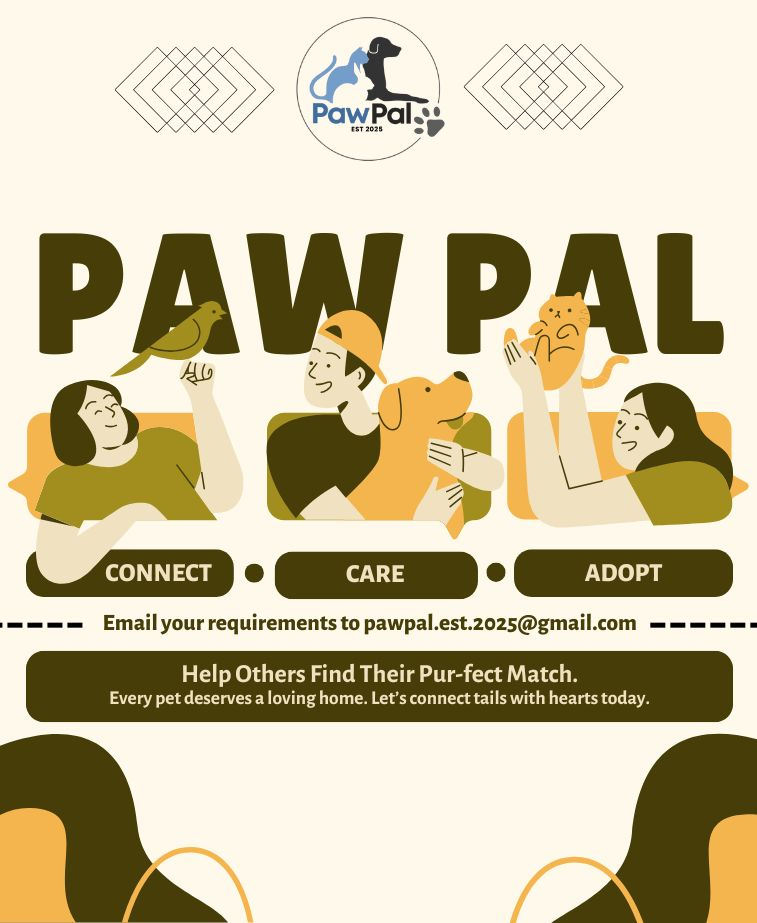
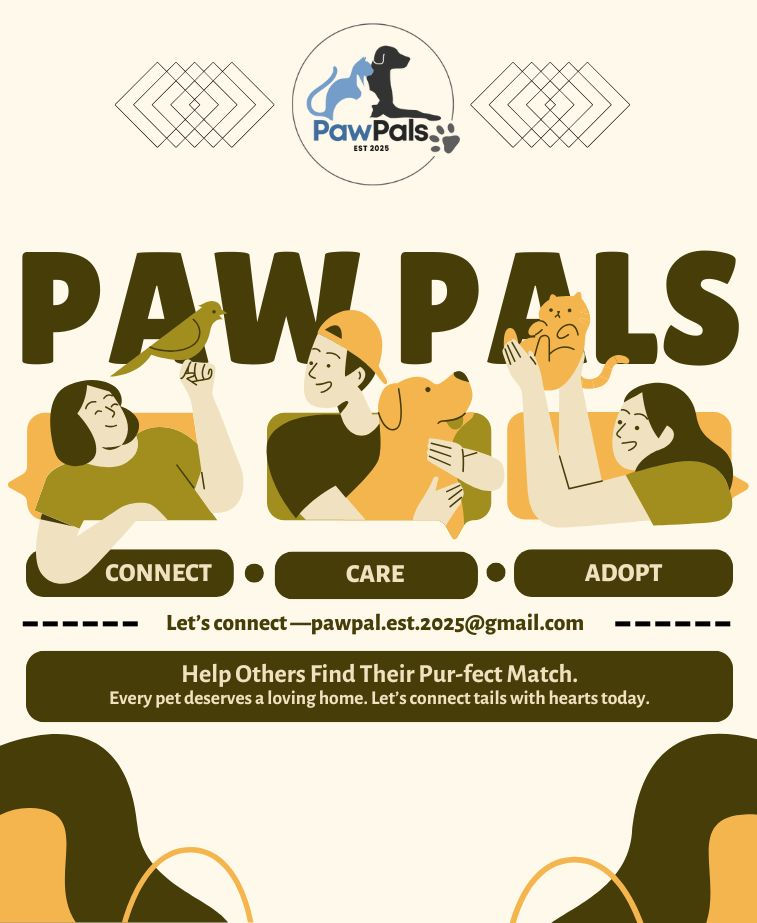
feat: updated signup with our schema

Changed region(s): [[0.0304, 0.2427, 1.0, 0.3944], [0.1519, 0.0, 0.8203, 0.182], [0.0, 0.6674, 1.0, 0.6977]]

diff --git a/frontend/src/components/Signup.jsx b/frontend/src/components/Signup.jsx
@@ -1,7 +1,6 @@
 import React, { useState, useMemo } from "react";
 import { Link } from "react-router-dom";
 import signupImage from "../assets/pawpal_signup.jpg";
-import emailjs from "@emailjs/browser";
 
 const styles = {
   container: {
@@ -33,7 +32,11 @@ const styles = {
     padding: "2rem",
     display: "flex",
     flexDirection: "column",
-    justifyContent: "center",
+    justifyContent: "flex-start",
+    height: "90vh",
+    overflowY: "auto",
+    scrollbarWidth: "thin",
+    scrollbarColor: "#ccc #fff",
   },
   title: {
     fontSize: "2.3rem",
@@ -71,6 +74,11 @@ const styles = {
     fontSize: "1rem",
     boxSizing: "border-box",
   },
+  errorText: {
+    color: "red",
+    fontSize: "0.75rem",
+    marginTop: "0.25rem",
+  },
   instruction: {
     fontSize: "0.85rem",
     color: "#4b5563",
@@ -101,6 +109,7 @@ const styles = {
 
 export default function Signup() {
   const [formData, setFormData] = useState({});
+  const [errors, setErrors] = useState({});
 
   const quotes = [
     "Give Love a Home — Adopt from the Pound.",
@@ -115,25 +124,80 @@ export default function Signup() {
   }, []);
 
   const handleChange = (e) => {
-    setFormData({ ...formData, [e.target.name]: e.target.value });
+    const { name, value } = e.target;
+
+    if (name.includes(".")) {
+      const [parent, child] = name.split(".");
+      setFormData((prev) => ({
+        ...prev,
+        [parent]: {
+          ...prev[parent],
+          [child]: value,
+        },
+      }));
+      setErrors((prev) => ({ ...prev, [`${parent}.${child}`]: "" }));
+    } else {
+      setFormData((prev) => ({ ...prev, [name]: value }));
+      setErrors((prev) => ({ ...prev, [name]: "" }));
+    }
   };
 
-  const handleSubmit = (e) => {
-    e.preventDefault();
+  const validateForm = () => {
+    const newErrors = {};
+    const requiredFields = [
+      "name",
+      "email",
+      "password",
+      "location.fullAddress",
+      "location.citySort",
+      "contact",
+    ];
 
-    emailjs.send(
-      "service_tenbebt",
-      "template_0rpmb44",
-      formData,
-      "JoGqE1mRi5hnh1eUz"
-    )
-    .then(() => {
-      alert("Your signup application has been submitted and emailed to PawPal. Please monitor your email and contact number for updates.");
-    })
-    .catch((error) => {
-      console.error("EmailJS error:", error);
-      alert("There was an issue submitting your application. Please try again later.");
+    requiredFields.forEach((field) => {
+      const value = field.includes(".")
+        ? formData[field.split(".")[0]]?.[field.split(".")[1]]
+        : formData[field];
+
+      if (!value || value.trim() === "") {
+        newErrors[field] = "This field is required.";
+      }
+
+      if (field === "email" && value && !/\S+@\S+\.\S+/.test(value)) {
+        newErrors.email = "Invalid email format.";
+      }
+
+      if (field === "password" && value && value.length < 6) {
+        newErrors.password = "Password must be at least 6 characters.";
+      }
     });
+
+    setErrors(newErrors);
+    return Object.keys(newErrors).length === 0;
+  };
+
+  const handleSubmit = async (e) => {
+    e.preventDefault();
+    if (!validateForm()) return;
+
+    try {
+      const response = await fetch("http://localhost:3000/api/kennels", { //insert this the exact backend once ready.
+        method: "POST",
+        headers: {
+          "Content-Type": "application/json",
+        },
+        body: JSON.stringify(formData),
+      });
+
+      if (response.ok) {
+        alert("Signup successful! Please wait for approval.");
+      } else {
+        const data = await response.json();
+        alert(data.message || "Signup failed. Please try again.");
+      }
+    } catch (err) {
+      console.error(err);
+      alert("An error occurred. Please try again later.");
+    }
   };
 
   return (
@@ -141,27 +205,57 @@ export default function Signup() {
       <div style={styles.innerWrapper}>
         <div style={styles.box}>
           <h1 style={styles.title}>
-            Register with <span style={styles.highlight}>PawPal</span>
+            Register with <span><span style={{ color: "#749CC9" }}>Paw</span><span style={{ color: "black" }}>Pals</span></span>
           </h1>
           <p style={styles.subtitle}>{randomQuote}</p>
 
           <form style={styles.form} onSubmit={handleSubmit}>
             {[
-              { label: "Name of Authorized Representative", name: "representative" },
-              { label: "Name of Kennel/Pound", name: "kennel" },
-              { label: "Address", name: "address" },
-              { label: "Email", name: "email" },
+              { label: "Kennel Name", name: "name" },
+              { label: "Email", name: "email", type: "email" },
+              { label: "Password", name: "password", type: "password" },
+              { label: "Full Address", name: "location.fullAddress" },
+              { label: "City", name: "location.citySort" },
               { label: "Contact Number", name: "contact" },
-              { label: "Landline", name: "landline" },
-            ].map(({ label, name }) => (
+              { label: "Website", name: "website" },
+              { label: "Facebook Link", name: "socialLinks.facebook" },
+              { label: "Instagram Link", name: "socialLinks.instagram" },
+              { label: "TikTok Link", name: "socialLinks.tiktok" },
+            ].map(({ label, name, type = "text" }) => (
               <div key={name}>
                 <label style={styles.label}>{label}</label>
-                <input type="text" name={name} required style={styles.input} onChange={handleChange} />
+                <input
+                  type={type}
+                  name={name}
+                  style={styles.input}
+                  onChange={handleChange}
+                />
+                {errors[name] && (
+                  <div style={styles.errorText}>{errors[name]}</div>
+                )}
               </div>
             ))}
 
+            <div>
+              <label style={styles.label}>Documents Upload (Please review the required documents listed below and provide the Google Drive link to your submission):</label>
+              <input
+                type="text"
+                name="documents"
+                style={styles.input}
+                onChange={(e) =>
+                  setFormData({
+                    ...formData,
+                    documents: e.target.value
+                      .split(",")
+                      .map((doc) => doc.trim()),
+                  })
+                }
+              />
+            </div>
+
             <p style={styles.instruction}>
-              Please send the following requirements to <b>pawpal@gmail.com</b>:
+              <b>Please upload the scanned copy of the following requirements to a google drive</b>:
+              <br />
               <br />
               - Government-Issued ID<br />
               - Business Permit/Mayor's Permit<br />
@@ -172,14 +266,21 @@ export default function Signup() {
             </p>
 
             <p style={styles.instruction}>
-              A member from PawPal will notify you if your application is approved. Kindly ensure your contact details are active and up to date.
+              A member from PawPals will notify you if your application is
+              approved. Kindly ensure your contact details are active and up to
+              date.
             </p>
 
-            <button type="submit" style={styles.button}>Submit Application</button>
+            <button type="submit" style={styles.button}>
+              Submit Application
+            </button>
           </form>
 
           <p style={styles.instruction}>
-            Already have an account? <Link to="/" style={styles.highlight}>Go to Login</Link>
+            Already have an account?{" "}
+            <Link to="/" style={styles.highlight}>
+              Go to Login
+            </Link>
           </p>
         </div>
 

diff --git a/frontend/src/components/Login.jsx b/frontend/src/components/Login.jsx
@@ -183,7 +183,7 @@ export default function Login() {
       <div style={styles.innerWrapper}>
         <div style={styles.box}>
           <h1 style={styles.title}>
-            Welcome to <span style={styles.highlight}>PawPal</span>
+            Welcome to <span><span style={{ color: "#749CC9" }}>Paw</span><span style={{ color: "black" }}>Pals</span></span>
           </h1>
           <p style={styles.subtitle}>{randomQuote}</p>
           <form style={styles.form} onSubmit={handleSubmit}>
@@ -225,7 +225,7 @@ export default function Login() {
   </Link>
 </p>
           <footer style={styles.footer}>
-            ©2025 PawPal | <a href="#">Privacy Policy</a> |{" "}
+            ©2025 PawPals | <a href="#">Privacy Policy</a> |{" "}
             <a href="#">Sitemap</a>
           </footer>
         </div>
